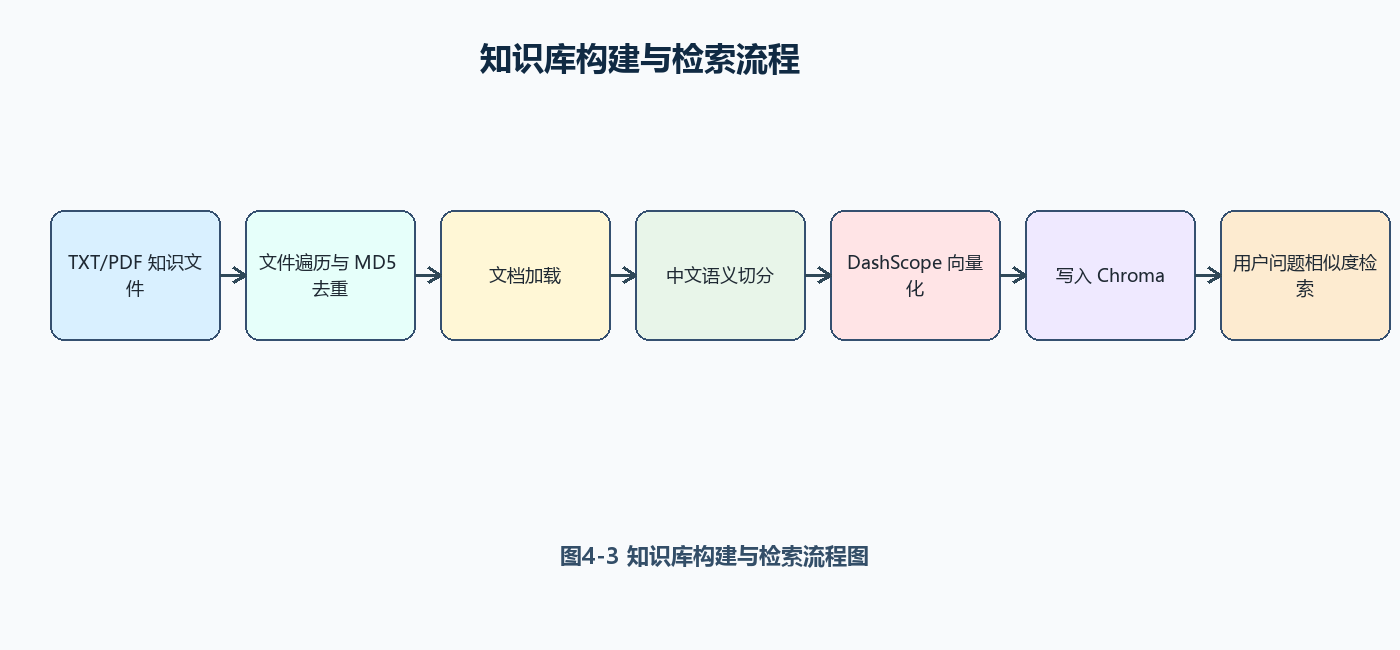
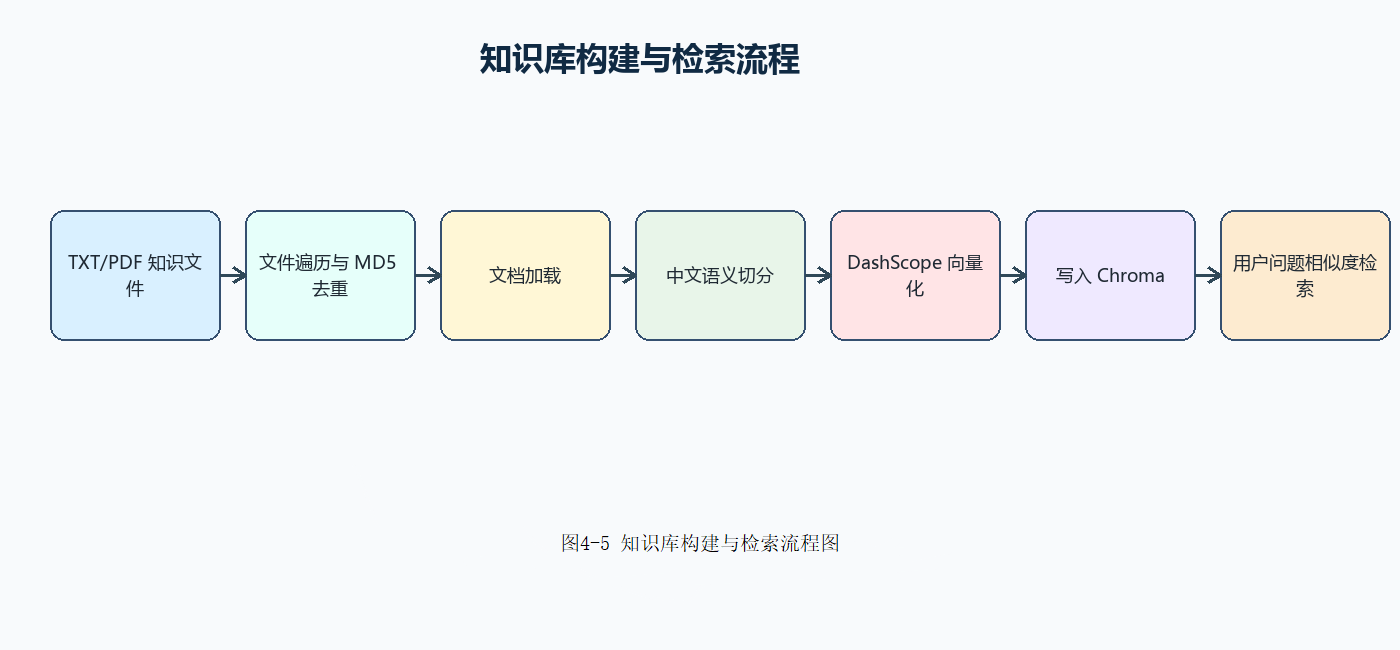
修改后的论文

Changed region(s): [[0.3993, 0.8, 0.645, 0.8923]]

diff --git a/agent/tools/agent_tools.py b/agent/tools/agent_tools.py
@@ -36,7 +36,7 @@ def get_user_id():
 def get_current_month() -> str:
     return random.choice(month_arr)
 
-def generrate_external_data():
+def generate_external_data():
     if not external_data:
         external_data_path = get_abs_path(agent_conf["external_data_path"])
         if not os.path.exists(external_data_path):
@@ -76,7 +76,7 @@ def fetch_external_data(user_id:str,month:str) -> str:
     except Exception as e:
         logger.warning(f"[fetch_external_data]MySQL查询失败，回退CSV数据源：{str(e)}")
 
-    generrate_external_data()
+    generate_external_data()
 
     try:
         return external_data[user_id][month]

diff --git a/scripts/enhance_thesis_docx.py b/scripts/enhance_thesis_docx.py
@@ -335,7 +335,7 @@ def add_content():
 
             @tool(description="从外部系统中获取指定用户在指定月份的使用记录")
             def fetch_external_data(user_id: str, month: str) -> str:
-                generrate_external_data()
+                generate_external_data()
                 try:
                     return external_data[user_id][month]
                 except KeyError: